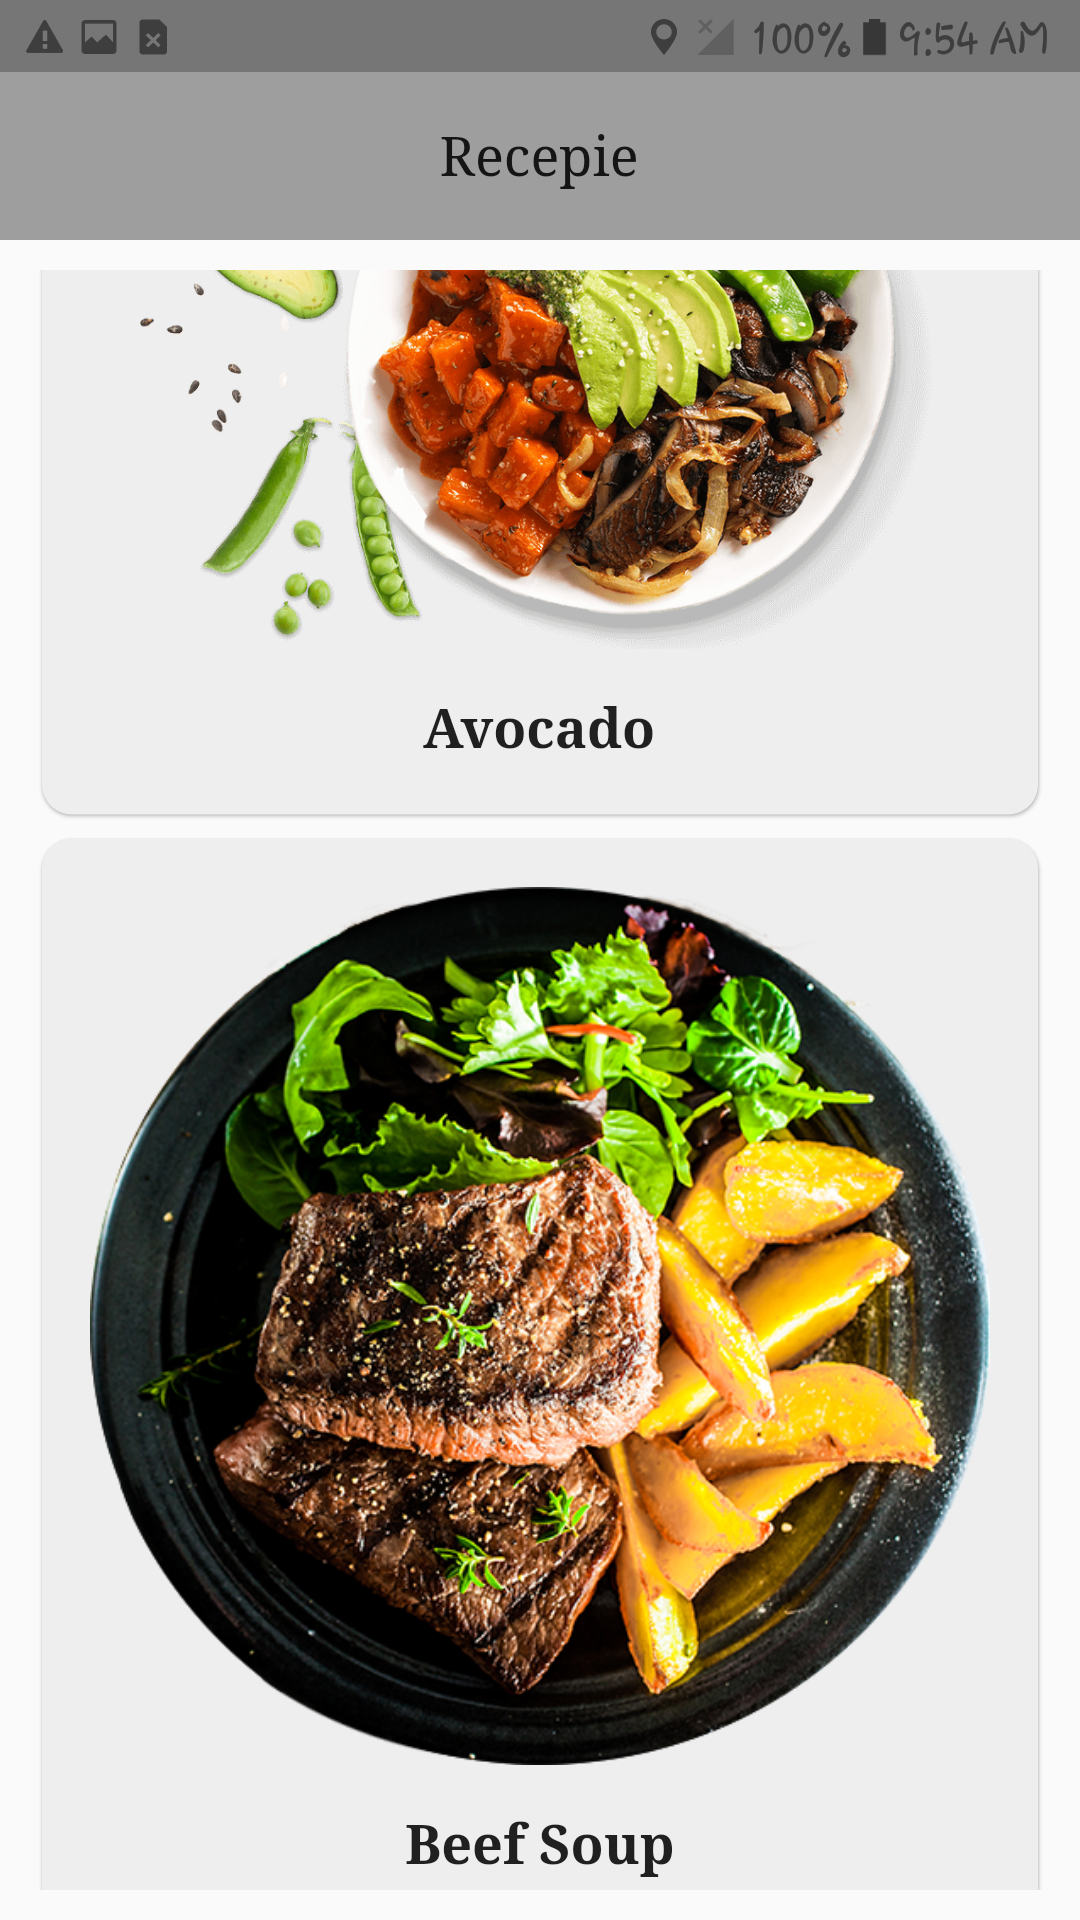
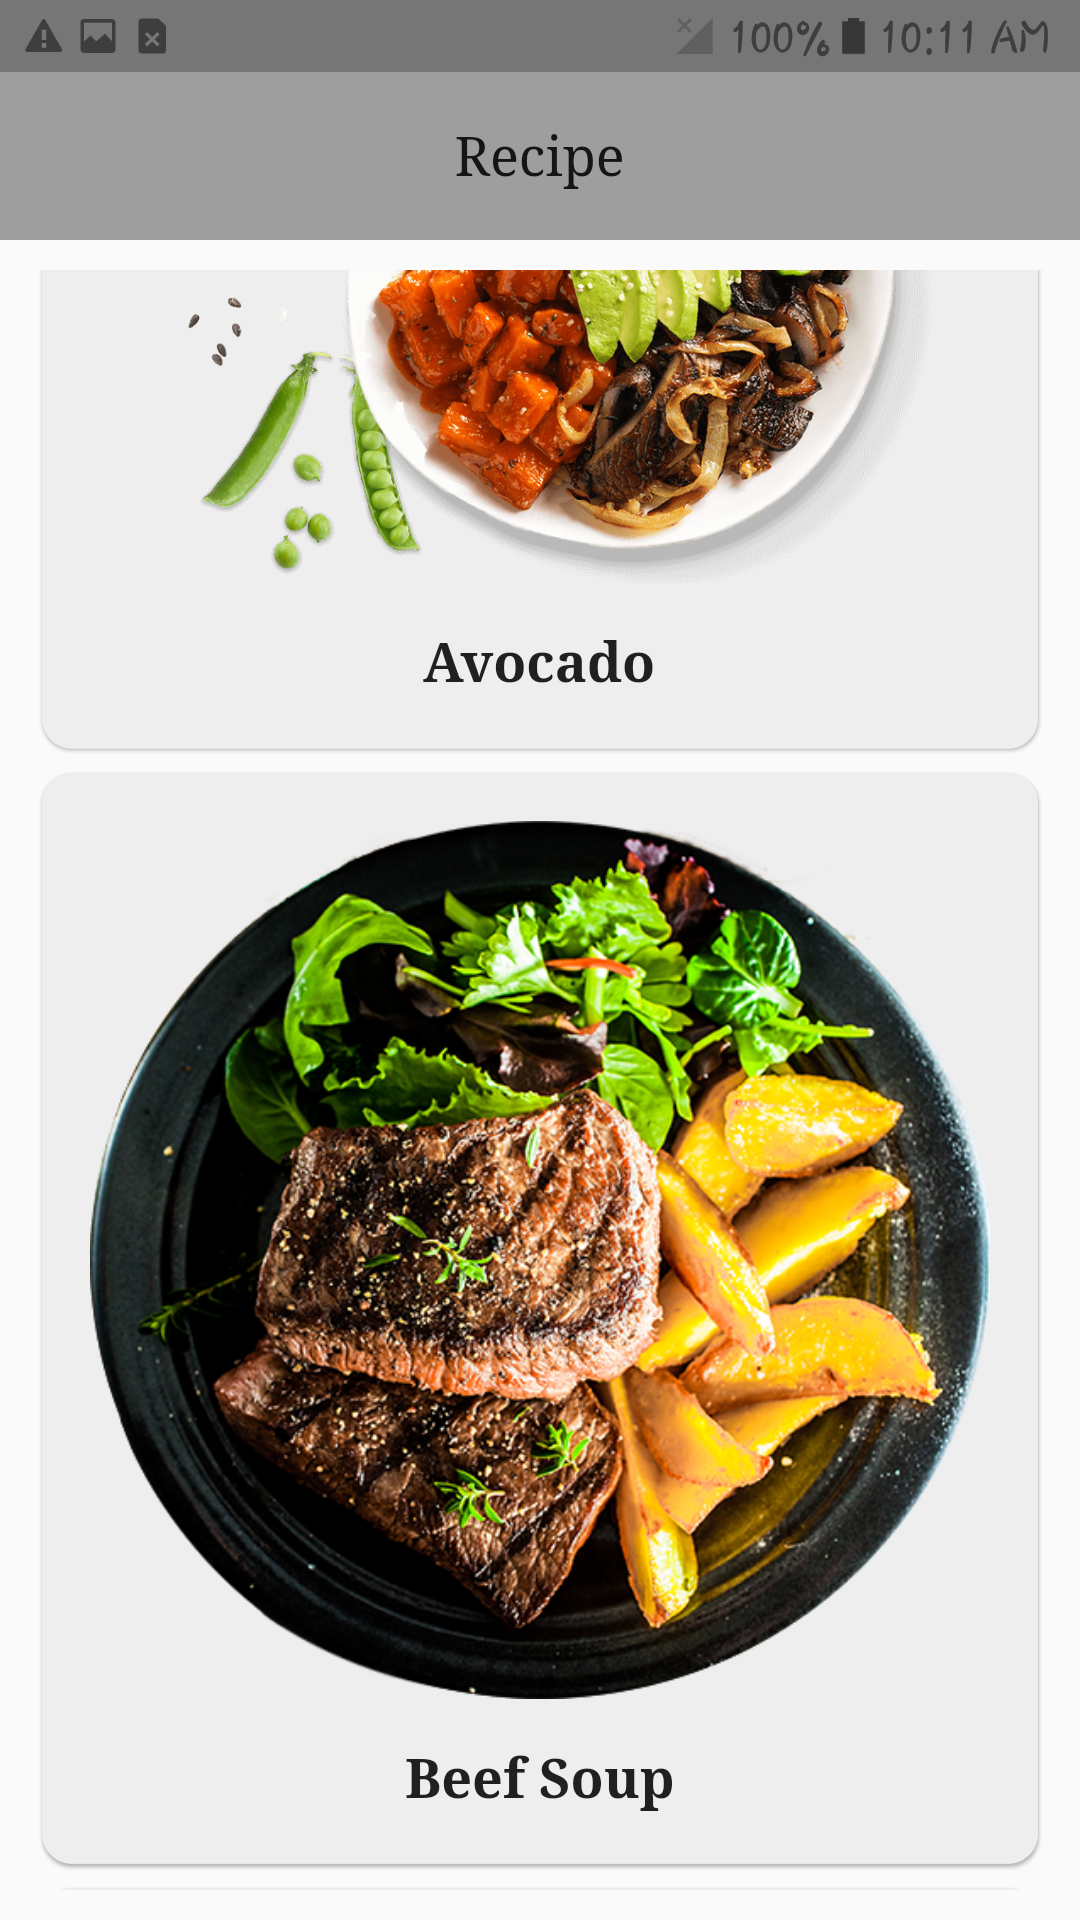
naming

diff --git a/lib/Screen/recipe_page.dart b/lib/Screen/recipe_page.dart
@@ -17,7 +17,7 @@ class _RecipiePageState extends State<RecipiePage> {
       appBar: AppBar(
         elevation: 0,
         centerTitle: true,
-        title: Text('Recepie'),
+        title: Text('Recipe'),
       ),
       body: SafeArea(
         child: Padding(

diff --git a/lib/main.dart b/lib/main.dart
@@ -1,5 +1,5 @@
 import 'package:flutter/material.dart';
-import 'package:flutter_apprentice_course/Screen/recipie_page.dart';
+import 'package:flutter_apprentice_course/Screen/recipe_page.dart';
 
 void main() {
   runApp(MyApp());
